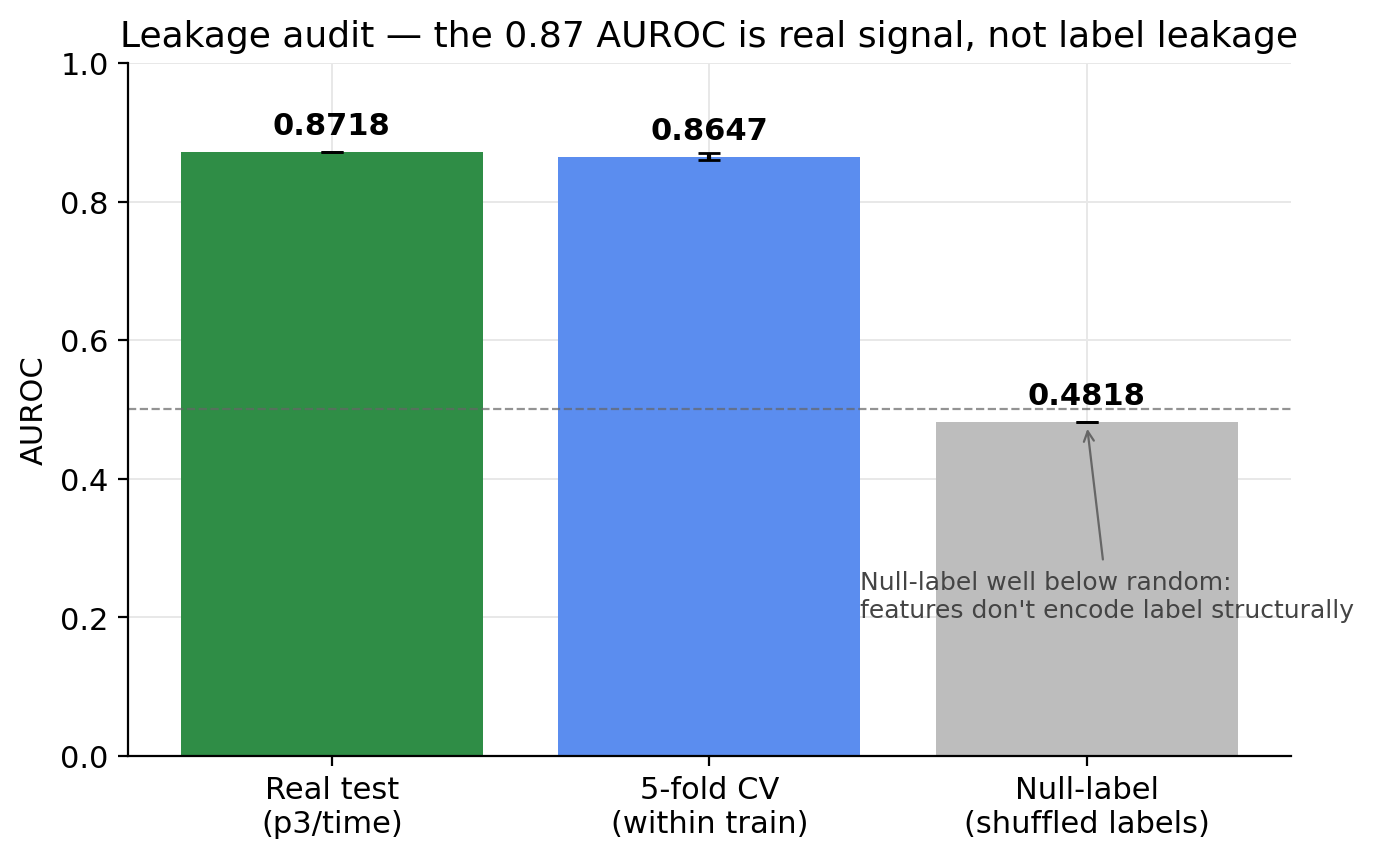
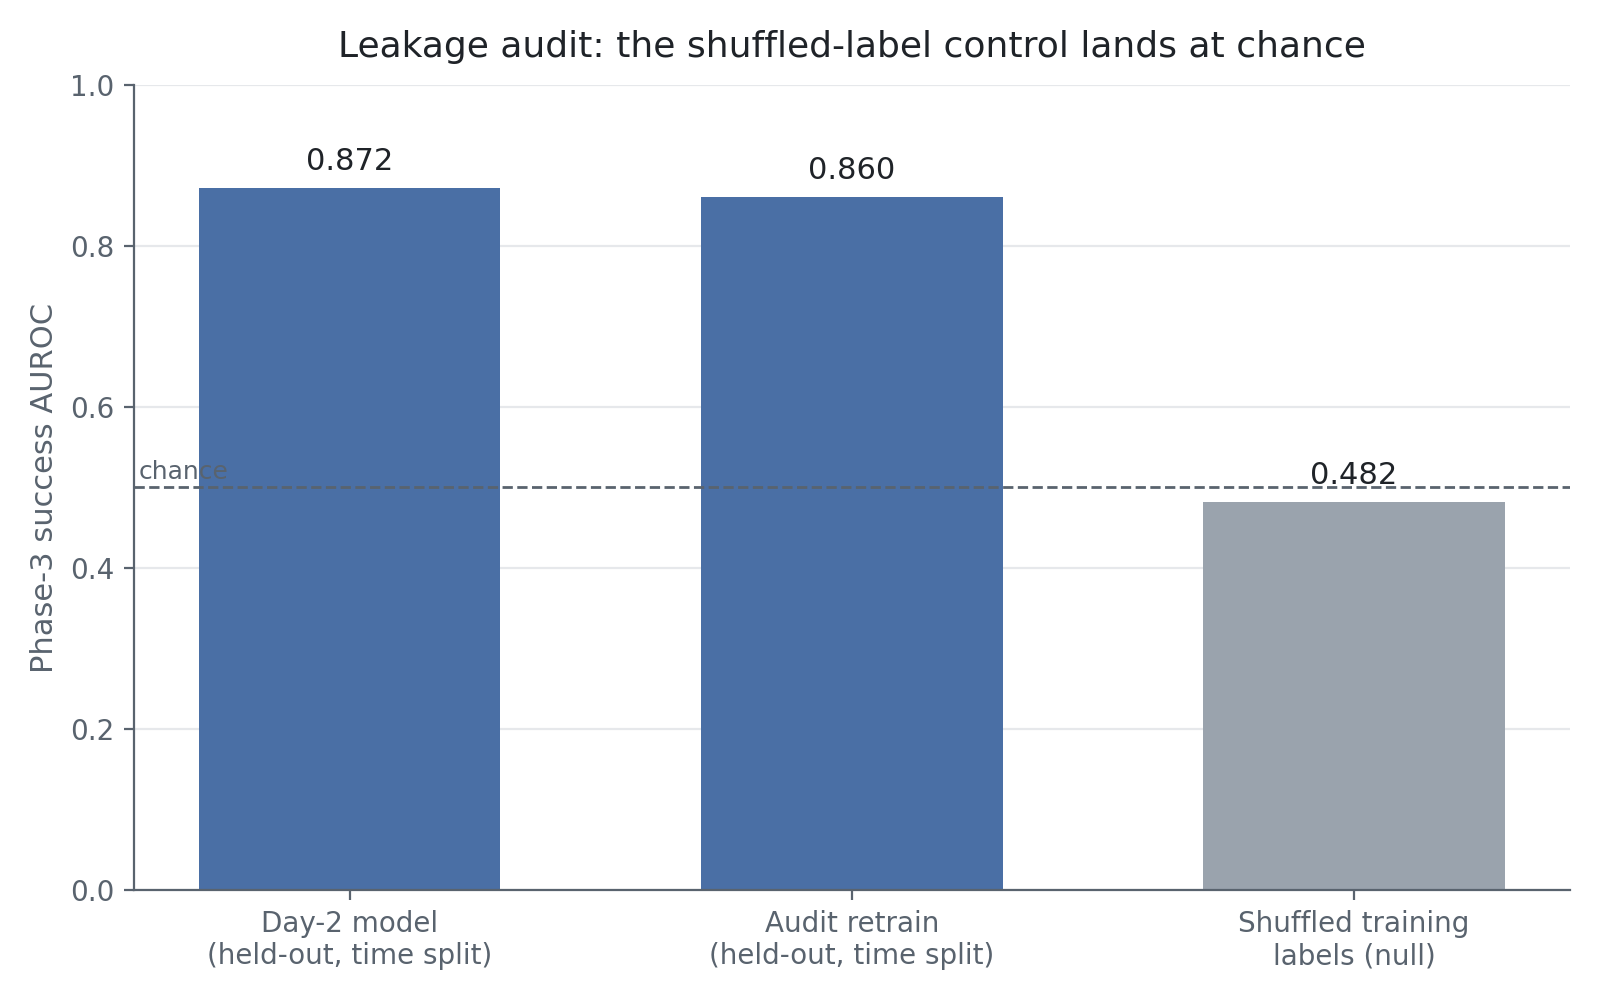
fix(content): correct live claims that the result files do not support
Every corrected number was re-read from the project's result files.
- c-elegans-multimodal: GNCA r=0.987 is in-sample (no held-out run), N=838 not 91, 92.7% used
  heuristic labels with graph features; the synthetic-dynamics null is labelled as such; manuscript
  status replaced.
- amr: 0.403 is conditional on n=72 of 571; LightGBM alone scores 0.431 on the same subset; the
  n=0 classes are LightGBM top-10 misses, not a vocabulary bug. Cover redrawn like-for-like.
- cfdna: 15 cancer / 4 healthy; scores saturated in [0.894, 0.9998]; exact permutation p=0.018;
  per-tissue AUROCs removed (no saved source).
- trial-failure: 108 features not 134; unsaved 5-fold number removed; same-drug target-encoding
  flag disclosed; fusion lift compared within one pipeline. Leakage figure redrawn from saved results.
- hypermobility: replace the false "nearer to the centre" sentence with the measured rg structure.
- specified-information: bottom line and both components brought to the claim ledger (no noise-
  ceiling saturation, structured residual, resolution-bounded nulls, Slit-Robo and per-rule codes).
- arc / rnafold-v2 / polymer and experience entries: state 0/172, TM 0.110 vs 0.153 baseline,
  and drop the unsupported hybrid-improvement claim.
- Remove the three agent "handed off" sentences.
- Affiliation: Undergraduate Researcher, Center for Data Science, Courant Institute of
  Mathematical Sciences, New York University.

diff --git a/src/components/react/SpecificationLedger.tsx b/src/components/react/SpecificationLedger.tsx
@@ -6,7 +6,7 @@ import { useState } from "react";
  *
  * A data-grounded decomposition of what makes the reproducible C. elegans nerve-ring
  * connectome reproducible. Every number is a real result from the analysis arc
- * (contact-geometry noise-ceiling, developmental-arrival mediation, presynaptic-NT bias)
+ * (contact geometry vs two-adult agreement, developmental-arrival mediation, presynaptic-NT bias)
  * and the systematic falsification of the "hidden molecular code" hypotheses.
  *
  * No number here is illustrative. Provenance is noted per block.
@@ -62,22 +62,23 @@ export default function SpecificationLedger() {
           What makes the reproducible connectome reproducible?
         </h3>
         <p className="mt-2 max-w-2xl text-sm leading-relaxed text-slate-400">
-          Physical contact geometry and developmental birth-timing account for the reproducible
-          wiring <em>up to the animal-to-animal noise ceiling</em>, with a small real presynaptic-transmitter
-          bias. There is no recoverable molecular address code beneath it.
+          Physical contact geometry and developmental timing account for most of the reproducible
+          wiring, with a small real presynaptic-transmitter bias. At class-level resolution there is no
+          distributed molecular address code beneath it, though a few rule-specific codes are real.
         </p>
       </div>
 
       {/* Panel 1 — noise ceiling */}
       <section className="mb-8">
         <h4 className="mb-1 text-sm font-semibold text-slate-100">
-          1 · Contact geometry reaches the reproducibility ceiling
+          1 · Contact geometry vs two-adult agreement
         </h4>
         <p className="mb-4 text-xs text-slate-400">
-          The most any model can achieve is set by how well one animal's wiring predicts another's
-          (the <span className="text-slate-300">noise ceiling</span>). At every synapse threshold, contact
-          geometry <span className="text-sky-300">meets or exceeds it</span> — so the leftover is individual
-          variability, not a missing code.
+          The red mark is how well one adult's wiring predicts another's. At every synapse threshold, contact
+          geometry <span className="text-sky-300">meets or exceeds it</span>. I first read that as reaching the
+          noise ceiling. It isn't: two-adult agreement is only a lower bound on the ceiling, a richer model
+          went past it, and on held-out neurons contact drops to 0.746. The leftover is structured and
+          reproducible, not just individual variability.
         </p>
         <div className="space-y-4">
           {CEILING.map((r) => (
@@ -108,7 +109,7 @@ export default function SpecificationLedger() {
         </div>
         <div className="mt-3 flex flex-wrap gap-4 text-[11px] text-slate-500">
           <span className="inline-flex items-center gap-1.5"><span className="h-2.5 w-3 rounded-sm bg-sky-500/70" /> contact-geometry AUC</span>
-          <span className="inline-flex items-center gap-1.5"><span className="h-3 w-[2px] bg-rose-400" /> animal-to-animal noise ceiling</span>
+          <span className="inline-flex items-center gap-1.5"><span className="h-3 w-[2px] bg-rose-400" /> two-adult agreement (lower bound on the ceiling)</span>
           <span>axis: 0.50 (chance) → 1.00</span>
         </div>
       </section>
@@ -135,7 +136,7 @@ export default function SpecificationLedger() {
           <div
             className="absolute inset-y-0 bg-[repeating-linear-gradient(45deg,#334155_0,#334155_6px,#1e293b_6px,#1e293b_12px)]"
             style={{ left: `${pct(RESIDUAL.from)}%`, width: `${pct(RESIDUAL.to) - pct(RESIDUAL.from)}%` }}
-            title="residual = animal noise + unmodeled"
+            title="residual = animal-to-animal variability + reproducible unmodeled structure"
           />
           <div className="absolute inset-0 flex items-center px-3 text-[11px] text-white/90">
             <span className="font-semibold">AUC 0.50 → 0.89 across the model stack</span>
@@ -198,10 +199,10 @@ export default function SpecificationLedger() {
       <p className="mt-6 border-t border-slate-800 pt-4 text-[11px] leading-relaxed text-slate-500">
         <span className="font-semibold text-slate-400">Reading this honestly.</span>{" "}
         This is a decomposition, not a discovered blueprint. Contact-dominance echoes Brittin (2021)
-        and reproducibility echoes Witvliet (2021); the contribution here is the noise-ceiling framing,
+        and reproducibility echoes Witvliet (2021); the contribution here is
         the developmental-arrival mediation, the controlled transmitter bias, and the systematic
-        falsification of the molecular-code hypotheses. The residual is largely animal-to-animal
-        variability — <em>not</em> a hidden code waiting to be found.
+        testing of molecular-code hypotheses against matched nulls. The residual is reproducible and
+        mostly unexplained; at the resolution tested, it is not a distributed hidden code.
       </p>
     </div>
   );

diff --git a/src/components/react/InvestigationLog.tsx b/src/components/react/InvestigationLog.tsx
@@ -32,13 +32,13 @@ const ENTRIES: Entry[] = [
     tried:
       "Use physical contact — which neurons touch, and how much surface they share — to predict which connections show up reliably across different worms.",
     found:
-      "It works remarkably well: contact geometry predicts reliable wiring about as well as one animal predicts another (AUC 0.84–0.91). That upper limit is the 'noise ceiling' — no model can beat it.",
+      "It works remarkably well: contact geometry predicts reliable wiring about as well as one adult animal predicts another (AUC 0.84–0.91). I first called that the 'noise ceiling'. It turned out to be only a lower bound: a richer model went past it, and on held-out neurons contact drops to 0.746.",
     ruled:
       "Nothing yet — this is the anchor. Contact is the dominant factor in reliable wiring.",
     why:
       "You can't wire two neurons that don't touch, and where they touch a lot they usually connect. Most of the wiring is set by who is physically next to whom.",
     next:
-      "If contact explains almost everything up to the noise ceiling, is the small leftover a hidden molecular 'address code'? We went looking for it.",
+      "If contact explains most of the reliable wiring, is the leftover a hidden molecular 'address code'? We went looking for it.",
   },
   {
     n: 2,
@@ -192,9 +192,9 @@ const ENTRIES: Entry[] = [
     tried:
       "Add up everything that survived its controls and ask what it says together.",
     found:
-      "Developmental birth-timing mediates the reliable 'strong core' of wiring (+0.061 beyond contact); that core is predictable right up to the noise ceiling; and the weak, variable connections behave like tolerated noise.",
+      "Developmental birth-timing mediates the reliable 'strong core' of wiring (+0.061 beyond contact); contact plus timing predict most of that core; and what is left over is reproducible and structured, not noise.",
     ruled:
-      "The idea that the connectome hides a compact code. It doesn't — at least not one recoverable from any data we have.",
+      "A distributed molecular code, at class-level mRNA resolution (microRNAs were never measured). A few rule-specific codes are real: innexins for gap junctions, homeobox genes for effectors, and Slit–Robo at synapses that form against the geometry.",
     why:
       "Every place a hidden code could live, a proper control dissolved it into contact, timing, or plain cell identity.",
     next:

diff --git a/scripts/figures/amr_cover.py b/scripts/figures/amr_cover.py
@@ -1,0 +1,34 @@
+"""AMR project cover: like-for-like canonical-AMR top-3 from the Day-3 result JSON.
+
+Source: /mnt/ssd4tb/research/amr/results/day3/phase_d_results.json. The reranker only scores transitions whose true
+mutation is in LightGBM's top-10 (n=72 of 571), so its unconditional value is top3 * 72/571 (misses count as wrong).
+"""
+import json, sys
+import matplotlib; matplotlib.use("Agg")
+import matplotlib.pyplot as plt
+
+d = json.load(open("/mnt/ssd4tb/research/amr/results/day3/phase_d_results.json"))
+N, n = d["split_info"]["n_test_transitions"], d["reranker_top10"]["canonical"]["n"]
+full = [d["lgbm_only_full_vocab"]["canonical"]["top3"], d["transformer_only_full_vocab"]["canonical"]["top3"],
+        d["reranker_top10"]["canonical"]["top3"] * n / N]
+sub = [d["lgbm_only_top10_subset"]["canonical"]["top3"], d["transformer_only_top10_subset"]["canonical"]["top3"],
+       d["reranker_top10"]["canonical"]["top3"]]
+labels = ["LightGBM", "Transformer", "Reranker"]
+INK, MUTED, GRID, BAR = "#1f2328", "#59636e", "#e6e8eb", "#4a6fa5"
+
+fig, axes = plt.subplots(1, 2, figsize=(9.2, 5.2), dpi=200, sharey=True)
+for ax, vals, title in ((axes[0], full, f"All {N} test transitions"),
+                        (axes[1], sub, f"The {n} where LightGBM's top-10\ncontains the answer")):
+    bars = ax.bar(labels, vals, width=0.6, color=BAR)
+    for b, v in zip(bars, vals):
+        ax.text(b.get_x() + b.get_width() / 2, v + 0.012, f"{v:.3f}", ha="center", va="bottom", fontsize=11, color=INK)
+    ax.set_title(title, fontsize=12, color=INK, pad=10)
+    ax.set_ylim(0, 0.5); ax.grid(axis="y", color=GRID, lw=0.8); ax.set_axisbelow(True)
+    for sp in ("top", "right"): ax.spines[sp].set_visible(False)
+    for sp in ("left", "bottom"): ax.spines[sp].set_color(MUTED)
+    ax.tick_params(colors=MUTED, labelsize=10.5)
+axes[0].set_ylabel("canonical-AMR top-3", color=MUTED, fontsize=11)
+fig.suptitle("The reranker beats neither of its components", fontsize=14, color=INK, y=0.99)
+fig.tight_layout()
+fig.savefig(sys.argv[1], facecolor="white")
+print("full", [round(v, 4) for v in full], "subset", [round(v, 4) for v in sub])

diff --git a/scripts/figures/trial_leakage.py b/scripts/figures/trial_leakage.py
@@ -1,0 +1,30 @@
+"""Trial-failure leakage figure from saved results only.
+
+Sources: /mnt/ssd4tb/research/trial-failure/results/day2/lgbm_v2_summary.json (Day-2 p3/time test AUROC) and
+day3/leakage_audit.json (audit retrain AUROC, null-label AUROC). The 5-fold CV figure in the old version had no
+saved result file and is omitted.
+"""
+import json, sys
+import matplotlib; matplotlib.use("Agg")
+import matplotlib.pyplot as plt
+
+R = "/mnt/ssd4tb/research/trial-failure/results/"
+d2 = json.load(open(R + "day2/lgbm_v2_summary.json"))["summaries"]["p3/time"]
+au = json.load(open(R + "day3/leakage_audit.json"))
+vals = [d2["AUROC"], au["verdict"]["audited_auroc"], au["null_label_experiment_p3_time"]["null_shuffled_auroc"]]
+labels = ["Day-2 model\n(held-out, time split)", "Audit retrain\n(held-out, time split)", "Shuffled training\nlabels (null)"]
+INK, MUTED, GRID, BAR, NULL = "#1f2328", "#59636e", "#e6e8eb", "#4a6fa5", "#9aa3ad"
+
+fig, ax = plt.subplots(figsize=(8, 5), dpi=200)
+bars = ax.bar(labels, vals, width=0.6, color=[BAR, BAR, NULL])
+for b, v in zip(bars, vals):
+    ax.text(b.get_x() + b.get_width() / 2, v + 0.015, f"{v:.3f}", ha="center", va="bottom", fontsize=11, color=INK)
+ax.axhline(0.5, color=MUTED, lw=1, ls="--"); ax.text(-0.42, 0.51, "chance", color=MUTED, fontsize=9, ha="left")
+ax.set_ylim(0, 1); ax.set_ylabel("Phase-3 success AUROC", color=MUTED, fontsize=11)
+ax.set_title("Leakage audit: the shuffled-label control lands at chance", fontsize=13, color=INK, pad=10)
+ax.grid(axis="y", color=GRID, lw=0.8); ax.set_axisbelow(True)
+for sp in ("top", "right"): ax.spines[sp].set_visible(False)
+for sp in ("left", "bottom"): ax.spines[sp].set_color(MUTED)
+ax.tick_params(colors=MUTED, labelsize=10)
+fig.tight_layout(); fig.savefig(sys.argv[1], facecolor="white")
+print([round(v, 4) for v in vals])
